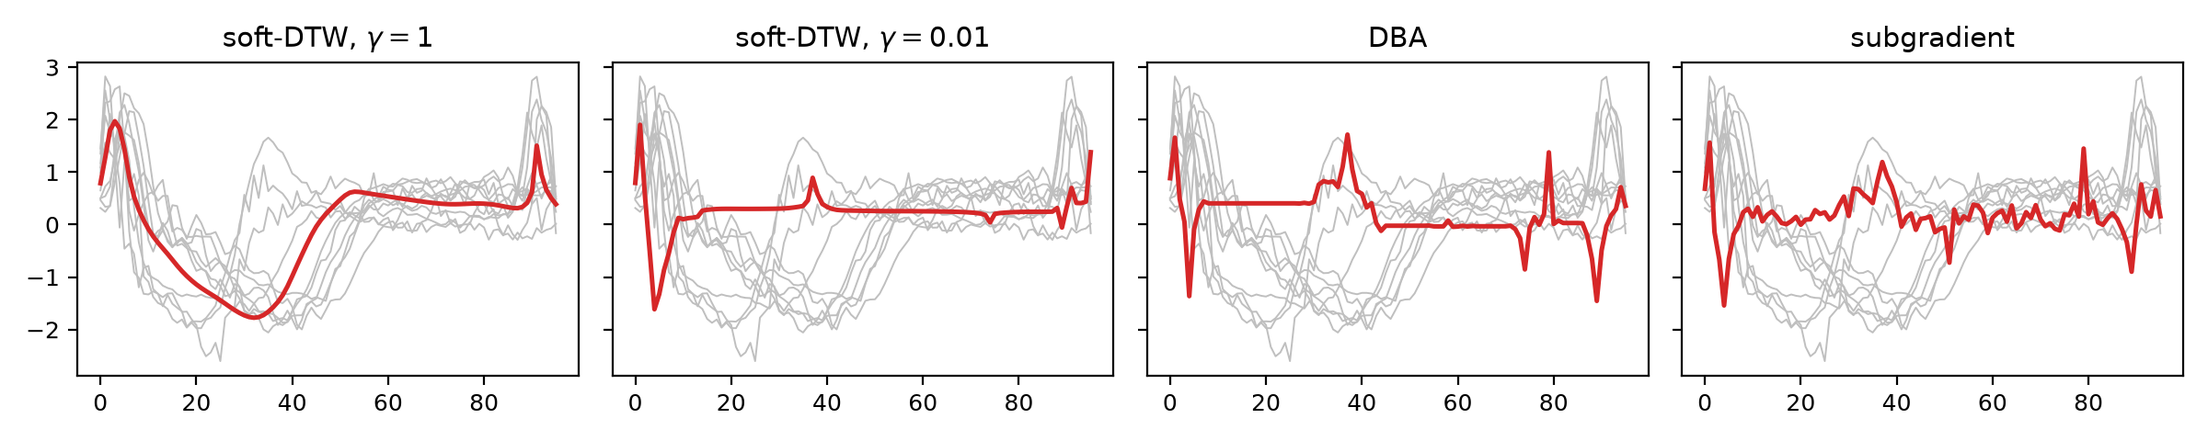
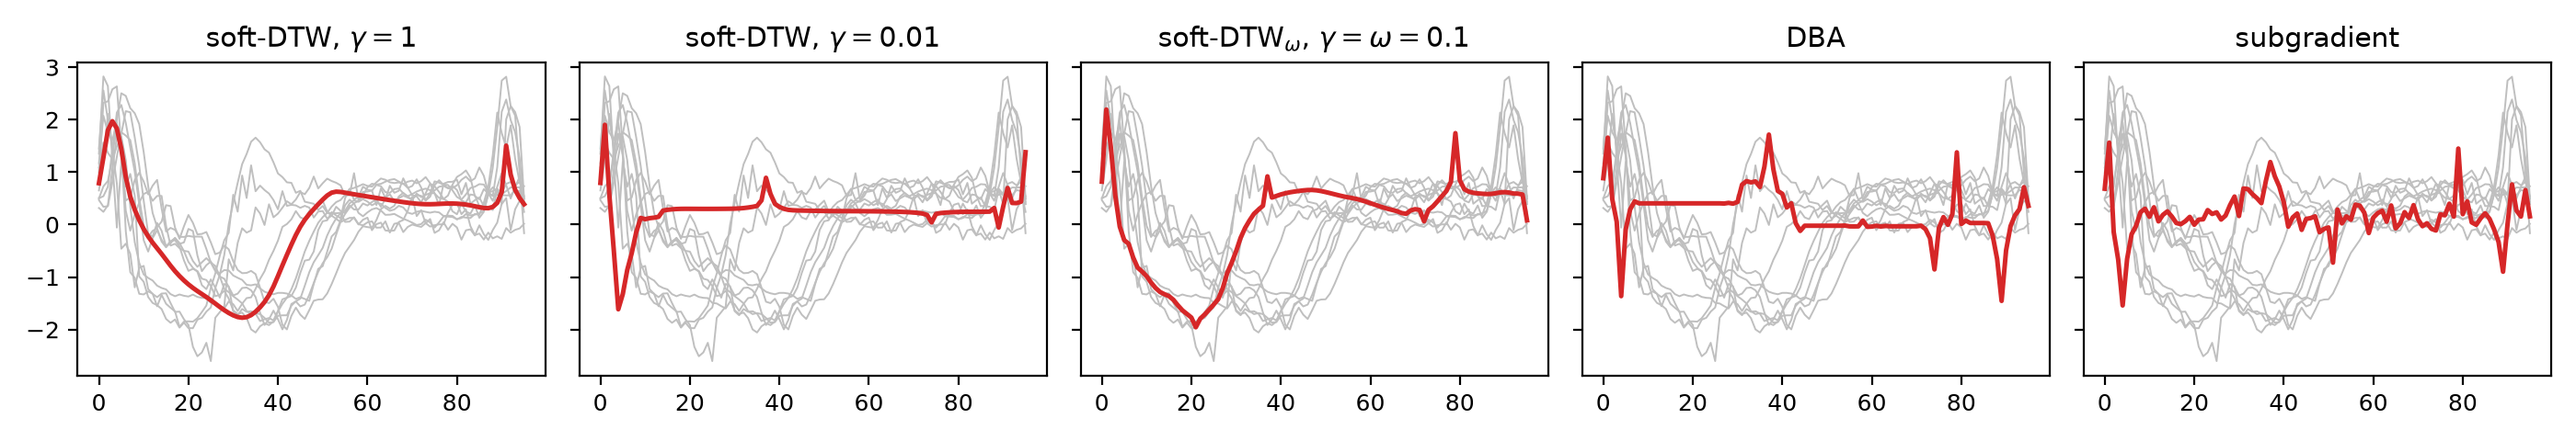
soft-DTW_omega in every comparison: Table 2 vs subgradient, appendix figures, k-means and forecasting scripts

diff --git a/make_figures.py b/make_figures.py
@@ -1,10 +1,11 @@
 """Qualitative figures of the paper, reproduced (appendix of the report).
 
-  figures/barycenters_ECG200.png  (paper Fig. 5): soft-DTW (gamma = 1, 0.01), DBA and
-                                  subgradient barycenters of 10 ECG200 series, random init
+  figures/barycenters_ECG200.png  (paper Fig. 5): soft-DTW (gamma = 1, 0.01), soft-DTW_omega,
+                                  DBA and subgradient barycenters of 10 ECG200 series, random init
   figures/interpolation_GunPoint.png (paper Fig. 4): weighted barycenters of two
-                                  GunPoint series, Euclidean vs soft-DTW (gamma = 1)
-  figures/kmeans_CBF.png          (paper Fig. 6): k-means on CBF, soft-DTW (gamma = 1) vs DBA
+                                  GunPoint series, Euclidean vs soft-DTW vs soft-DTW_omega (gamma = 1)
+  figures/kmeans_CBF.png          (paper Fig. 6): k-means on CBF, soft-DTW and
+                                  soft-DTW_omega (gamma = 1) vs DBA
   figures/prior_zero_cost.png     expected alignment E with zero costs: the
                                   data-independent prior of soft-DTW vs soft-DTW_omega
 Usage:  python make_figures.py
@@ -20,6 +21,7 @@ import numpy as np
 
 from barycenter import dba_barycenter, softdtw_barycenter, subgradient_barycenter
 from clustering import dtw_kmeans
+from family import family_barycenter
 from softdp import edge_costs, soft_dp
 
 warnings.filterwarnings("ignore")
@@ -39,9 +41,11 @@ def barycenters_figure():
     init = rng.normal(size=Y[0].shape)
     methods = {"soft-DTW, $\\gamma=1$": lambda: softdtw_barycenter(Y, 1.0, init),
                "soft-DTW, $\\gamma=0.01$": lambda: softdtw_barycenter(Y, 0.01, init),
+               "soft-DTW$_\\omega$, $\\gamma=\\omega=0.1$":
+                   lambda: family_barycenter(Y, "adtw", 0.1, init, omega=0.1).reshape(init.shape),
                "DBA": lambda: dba_barycenter(Y, init),
                "subgradient": lambda: subgradient_barycenter(Y, init)}
-    fig, axes = plt.subplots(1, 4, figsize=(12, 2.4), sharey=True)
+    fig, axes = plt.subplots(1, 5, figsize=(14, 2.4), sharey=True)
     for ax, (title, fn) in zip(axes, methods.items()):
         for s in Y:
             ax.plot(s[:, 0], color="0.75", lw=0.7)
@@ -55,15 +59,19 @@ def barycenters_figure():
 def interpolation_figure():
     X, y = load("GunPoint")
     a, b = X[np.where(y == np.unique(y)[0])[0][0]], X[np.where(y == np.unique(y)[1])[0][0]]
-    fig, axes = plt.subplots(1, 2, figsize=(9, 2.6), sharey=True)
-    for ax, title in zip(axes, ["Euclidean", "soft-DTW, $\\gamma=1$"]):
+    fig, axes = plt.subplots(1, 3, figsize=(12, 2.6), sharey=True)
+    for ax, title in zip(axes, ["Euclidean", "soft-DTW, $\\gamma=1$",
+                                "soft-DTW$_\\omega$, $\\gamma=\\omega=1$"]):
         ax.plot(a[:, 0], color="C3", lw=1.5)
         ax.plot(b[:, 0], color="C0", lw=1.5)
         for w in (0.25, 0.5, 0.75):
             if title == "Euclidean":
                 z = w * a + (1 - w) * b
-            else:
+            elif title.startswith("soft-DTW,"):
                 z = softdtw_barycenter([a, b], 1.0, w * a + (1 - w) * b, weights=[w, 1 - w])
+            else:
+                z = family_barycenter([a, b], "adtw", 1.0, w * a + (1 - w) * b, omega=1.0,
+                                      weights=[w, 1 - w]).reshape(a.shape)
             ax.plot(z[:, 0], color="0.3", lw=1, ls="--")
         ax.set_title(title)
     plt.tight_layout()
@@ -75,10 +83,12 @@ def kmeans_figure():
     X, y = load("CBF")
     k = len(np.unique(y))
     init = X[np.random.default_rng(0).choice(len(X), k, replace=False)]
-    fig, axes = plt.subplots(2, k, figsize=(10, 4), sharey=True)
-    for row, (title, method, gamma) in enumerate([("soft-DTW, $\\gamma=1$", "soft-DTW", 1.0),
-                                                  ("DBA", "DBA", None)]):
-        C, labels = dtw_kmeans(X, k, method, init, gamma=gamma)
+    fig, axes = plt.subplots(3, k, figsize=(10, 6), sharey=True)
+    for row, (title, method, gamma, omega) in enumerate([
+            ("soft-DTW, $\\gamma=1$", "soft-DTW", 1.0, 0.0),
+            ("soft-DTW$_\\omega$, $\\gamma=\\omega=1$", "soft-DTW_omega", 1.0, 1.0),
+            ("DBA", "DBA", None, 0.0)]):
+        C, labels = dtw_kmeans(X, k, method, init, gamma=gamma, omega=omega)
         for j in range(k):
             ax = axes[row, j]
             for s in X[labels == j]:

diff --git a/report/main.tex b/report/main.tex
@@ -135,7 +135,7 @@ Protocol as in the paper: for each dataset, 10 random draws of 10 series of one 
 
 \begin{table}[t]
 \centering\small
-\caption{Percentage of datasets on which soft-DTW reaches a lower hard-DTW loss than DBA / the subgradient method. Ours (12 datasets for barycenters, 10 for $k$-means) vs.\ the paper (79 datasets) in parentheses. Middle block: our soft-DTW$_\omega$ (Section~4.5) on the same draws, against the same DBA barycenters.}
+\caption{Percentage of datasets on which soft-DTW reaches a lower hard-DTW loss than DBA / the subgradient method. Ours (12 datasets for barycenters, 10 for $k$-means) vs.\ the paper (79 datasets) in parentheses. Middle block: our soft-DTW$_\omega$ (Section~4.5) on the same draws, against the same DBA and subgradient barycenters.}
 \label{tab:repro}
 \setlength{\tabcolsep}{4pt}
 \begin{tabular}{llcccc}
@@ -148,9 +148,11 @@ Protocol as in the paper: for each dataset, 10 random draws of 10 series of one 
 & vs subgrad., random init & 75 (96) & 100 (97) & 100 (97) & 100 (97) \\
 & vs subgrad., Euclidean init & 17 (35) & 75 (72) & 92 (92) & 100 (97) \\
 \midrule
-\multirow{2}{*}{\shortstack[l]{Ours: soft-DTW$_\omega$\\$\omega=0.1$ / $\omega=1$}}
+\multirow{4}{*}{\shortstack[l]{Ours: soft-DTW$_\omega$\\$\omega=0.1$ / $\omega=1$}}
 & vs DBA, random init & 58 / 58 & 83 / 58 & 83 / 58 & 83 / 58 \\
 & vs DBA, Euclidean init & 8 / 8 & 17 / 8 & 8 / 8 & 8 / 8 \\
+& vs subgrad., random init & 75 / 83 & 100 / 100 & 100 / 100 & 100 / 100 \\
+& vs subgrad., Euclidean init & 17 / 17 & 50 / 17 & 58 / 17 & 58 / 17 \\
 \midrule
 \multirow{4}{*}{$k$-means}
 & vs DBA, random init & 10 (16) & 50 (25) & 70 (60) & 90 (77) \\
@@ -279,21 +281,21 @@ We re-implemented soft-DTW from scratch, verified it against exhaustive enumerat
 \begin{figure}[h]
 \centering
 \includegraphics[width=\linewidth]{barycenters_ECG200.png}
-\caption{Barycenters of 10 ECG200 series (grey) from the same random initialisation (paper's Fig.~5). With $\gamma=1$ the barycenter is smooth and follows the shape of the class; with $\gamma=0.01$, DBA and the subgradient method it shows spurious kinks and flat segments.}
+\caption{Barycenters of 10 ECG200 series (grey) from the same random initialisation (paper's Fig.~5). With $\gamma=1$ the barycenter is smooth and follows the shape of the class; with $\gamma=0.01$, DBA and the subgradient method it shows spurious kinks and flat segments. Soft-DTW$_\omega$ ($\gamma=\omega=0.1$) recovers the valley of the class with little smoothing, keeping a few kinks.}
 \label{fig:bary}
 \end{figure}
 
 \begin{figure}[h]
 \centering
 \includegraphics[width=0.8\linewidth]{interpolation_GunPoint.png}
-\caption{Weighted barycenters (dashed, weights $0.25,0.5,0.75$) between two GunPoint series (paper's Fig.~4). The Euclidean average blends the two pulses, whereas soft-DTW moves the pulse in time from one series to the other.}
+\caption{Weighted barycenters (dashed, weights $0.25,0.5,0.75$) between two GunPoint series (paper's Fig.~4). The Euclidean average blends the two pulses, whereas soft-DTW moves the pulse in time from one series to the other; soft-DTW$_\omega$ ($\gamma=\omega=1$) gives almost the same interpolation.}
 \label{fig:interp}
 \end{figure}
 
 \begin{figure}[h]
 \centering
 \includegraphics[width=\linewidth]{kmeans_CBF.png}
-\caption{$k$-means clusters on CBF (paper's Fig.~6), same random initialisation. Soft-DTW ($\gamma=1$) centroids are smooth; DBA centroids absorb the noise of the series.}
+\caption{$k$-means clusters on CBF (paper's Fig.~6), same random initialisation. Soft-DTW and soft-DTW$_\omega$ ($\gamma=1$, $\omega=1$) centroids are smooth; DBA centroids absorb the noise of the series.}
 \label{fig:kmeans}
 \end{figure}
 

diff --git a/exp_kmeans_omega.py b/exp_kmeans_omega.py
@@ -1,0 +1,58 @@
+"""k-means with soft-DTW_omega (extension of Table 2 of the paper).
+
+Same datasets, inits (k random series, 3 seeds, and Euclidean k-means), iteration
+limits and hard-DTW energy as exp_kmeans.py; assignment and centring both use
+soft-DTW_omega. Checkpointed per job in results/kmeans_omega_parts/.
+
+Usage:  python exp_kmeans_omega.py [n_jobs]  ->  results/kmeans_omega.csv
+"""
+
+import os
+
+os.environ.setdefault("NUMBA_NUM_THREADS", "1")  # one thread per joblib worker
+
+import sys
+import time
+import warnings
+
+import numpy as np
+import pandas as pd
+from joblib import Parallel, delayed
+
+from clustering import dtw_kmeans, kmeans_energy
+from exp_kmeans import DATASETS, GAMMAS, SEEDS, euclidean_kmeans_init, load_train
+
+OMEGAS = [0.1, 1.0]
+
+
+def run(name, init_name, seed):
+    part = f"results/kmeans_omega_parts/{name}_{init_name}_{seed}.csv"
+    if os.path.exists(part):
+        return pd.read_csv(part).to_dict("records")
+    warnings.filterwarnings("ignore")
+    X, y = load_train(name)
+    k = len(np.unique(y))
+    rng = np.random.default_rng(seed)  # same initial centroids as exp_kmeans.py
+    init = (X[rng.choice(len(X), k, replace=False)] if init_name == "random"
+            else euclidean_kmeans_init(X, k, seed))
+    rows = []
+    for gamma in GAMMAS:
+        for omega in OMEGAS:
+            t0 = time.perf_counter()
+            C, _ = dtw_kmeans(X, k, "soft-DTW_omega", init, gamma=gamma, omega=omega)
+            rows.append(dict(dataset=name, init=init_name, seed=seed, method="soft-DTW_omega",
+                             gamma=gamma, omega=omega, energy=kmeans_energy(X, C),
+                             time=time.perf_counter() - t0))
+    os.makedirs(os.path.dirname(part), exist_ok=True)
+    pd.DataFrame(rows).to_csv(part, index=False)
+    return rows
+
+
+if __name__ == "__main__":
+    n_jobs = int(sys.argv[1]) if len(sys.argv) > 1 else 7
+    jobs = [(d, "random", s) for d in DATASETS for s in SEEDS] + \
+           [(d, "euclidean", 0) for d in DATASETS]
+    out = Parallel(n_jobs=n_jobs, verbose=10)(delayed(run)(*j) for j in jobs)
+    df = pd.DataFrame([r for rows in out for r in rows])
+    df.to_csv("results/kmeans_omega.csv", index=False)
+    print(df.groupby(["init", "gamma", "omega"])["energy"].mean())

diff --git a/clustering.py b/clustering.py
@@ -8,6 +8,7 @@ import numpy as np
 from numba import njit, prange
 
 from barycenter import dba_barycenter, softdtw_barycenter, subgradient_barycenter
+from family import family_barycenter, pairwise_adtw
 from softdtw import sdtw_forward, sqeuclidean_cost
 
 
@@ -42,10 +43,11 @@ def kmeans_energy(X, C):
     return float(pairwise_sdtw(X, C, 0.0).min(1).sum() / X.shape[1])
 
 
-def dtw_kmeans(X, k, method, init_centroids, gamma=None, max_outer=30, max_inner=100):
+def dtw_kmeans(X, k, method, init_centroids, gamma=None, max_outer=30, max_inner=100, omega=0.0):
     """Lloyd's algorithm where assignment and centring both use the method's geometry.
 
     method: 'soft-DTW' (assign with dtw_gamma, centre with soft-DTW barycenter),
+            'soft-DTW_omega' (assign and centre with soft-DTW_omega, penalty omega),
             'DBA' or 'subgradient' (assign with hard DTW, centre with that barycenter).
     Returns (centroids, labels).
     """
@@ -53,7 +55,10 @@ def dtw_kmeans(X, k, method, init_centroids, gamma=None, max_outer=30, max_inner
     assign_gamma = gamma if method == "soft-DTW" else 0.0
     labels = None
     for _ in range(max_outer):
-        new_labels = pairwise_sdtw(X, C, assign_gamma).argmin(1)
+        if method == "soft-DTW_omega":
+            new_labels = pairwise_adtw(X, C, gamma, omega).argmin(1)
+        else:
+            new_labels = pairwise_sdtw(X, C, assign_gamma).argmin(1)
         if labels is not None and np.array_equal(new_labels, labels):
             break
         labels = new_labels
@@ -63,6 +68,9 @@ def dtw_kmeans(X, k, method, init_centroids, gamma=None, max_outer=30, max_inner
                 continue
             if method == "soft-DTW":
                 C[j] = softdtw_barycenter(members, gamma, C[j], max_iter=max_inner)
+            elif method == "soft-DTW_omega":
+                C[j] = family_barycenter(members, "adtw", gamma, C[j], omega=omega,
+                                         max_iter=max_inner).reshape(C[j].shape)
             elif method == "DBA":
                 C[j] = dba_barycenter(members, C[j], max_iter=max_inner)
             else:

diff --git a/exp_forecast_omega_gammas.py b/exp_forecast_omega_gammas.py
@@ -1,0 +1,50 @@
+"""Forecasting with soft-DTW_omega for every gamma of Table 3 (1, 0.1, 0.001;
+gamma = 0.01 is in exp_forecast_omega.py), omega in {0.1, 1}, random init and
+init from the Euclidean network. Training is deterministic (same seed), so the
+results are directly comparable with results/forecast.csv.
+
+Usage:  python exp_forecast_omega_gammas.py  ->  results/forecast_omega_gammas.csv
+"""
+
+import copy
+import os
+import warnings
+
+import pandas as pd
+
+from exp_forecast import DATASETS, euclidean_loss, evaluate, load, mlp, train
+from exp_forecast_omega import timing_errors
+from torch_sdtw import SoftDTWLoss
+
+GAMMAS = [1.0, 0.1, 0.001]
+OMEGAS = [0.1, 1.0]
+
+
+def run(name):
+    Xin, Xout, Tin, Tout = load(name)
+    T = Tout.numpy()
+    base = train(mlp(Xin.shape[1], Xout.shape[1]), euclidean_loss, Xin, Xout)
+    rows = []
+    for gamma in GAMMAS:
+        for omega in OMEGAS:
+            for init in ("random", "euclidean"):
+                model = mlp(Xin.shape[1], Xout.shape[1]) if init == "random" else copy.deepcopy(base)
+                model = train(model, SoftDTWLoss(gamma, omega=omega), Xin, Xout)
+                e, d, P = evaluate(model, Tin, Tout)
+                tmax, tmin = timing_errors(P, T)
+                rows.append(dict(dataset=name, init=init, model="soft-DTW_omega", gamma=gamma,
+                                 omega=omega, euclid=e, dtw=d, t_max_err=tmax, t_min_err=tmin))
+    return rows
+
+
+if __name__ == "__main__":
+    warnings.filterwarnings("ignore")
+    os.makedirs("results/forecast_omega_gammas_parts", exist_ok=True)
+    for name in DATASETS:  # checkpointed per dataset
+        part = f"results/forecast_omega_gammas_parts/{name}.csv"
+        if os.path.exists(part):
+            continue
+        pd.DataFrame(run(name)).to_csv(part, index=False)
+        print(name, "done", flush=True)
+    pd.concat([pd.read_csv(f"results/forecast_omega_gammas_parts/{d}.csv") for d in DATASETS]).to_csv(
+        "results/forecast_omega_gammas.csv", index=False)

diff --git a/family.py b/family.py
@@ -9,17 +9,18 @@ from numba import njit, prange
 from scipy.optimize import minimize
 
 from softdp import soft_distance, soft_distance_value_and_grad, soft_dp_forward
+from barycenter import _weights
 from softdtw import _as_2d
 
 
-def family_objective(z, Y, kind, gamma, omega=0.0):
+def family_objective(z, Y, kind, gamma, omega=0.0, weights=None):
     """Barycenter objective sum_i S(z, y_i) / (N m_i) (Eq. 4) for S = soft-DTW or
-    soft-DTW_omega. Returns (value, gradient wrt z).
+    soft-DTW_omega, with weights w_i (uniform 1/N by default). Returns (value, gradient wrt z).
     """
     z = _as_2d(z)
     Y = [_as_2d(y) for y in Y]
     params = {"omega": omega} if kind == "adtw" else {}
-    w = np.array([1.0 / (len(Y) * len(y)) for y in Y])
+    w = _weights(Y, weights)
     val, grad = 0.0, np.zeros_like(z)
     for wi, y in zip(w, Y):
         v, gr = soft_distance_value_and_grad(z, y, gamma, kind, **params)
@@ -28,14 +29,14 @@ def family_objective(z, Y, kind, gamma, omega=0.0):
     return val, grad
 
 
-def family_barycenter(Y, kind, gamma, init, omega=0.0, max_iter=100):
+def family_barycenter(Y, kind, gamma, init, omega=0.0, max_iter=100, weights=None):
     """L-BFGS barycenter for soft-DTW or soft-DTW_omega."""
     Y = [_as_2d(y) for y in Y]
     init = _as_2d(init)
     shape = init.shape
 
     def f(z):
-        v, gr = family_objective(z.reshape(shape), Y, kind, gamma, omega)
+        v, gr = family_objective(z.reshape(shape), Y, kind, gamma, omega, weights)
         return v, gr.ravel()
 
     res = minimize(f, init.ravel(), jac=True, method="L-BFGS-B", options={"maxiter": max_iter})
